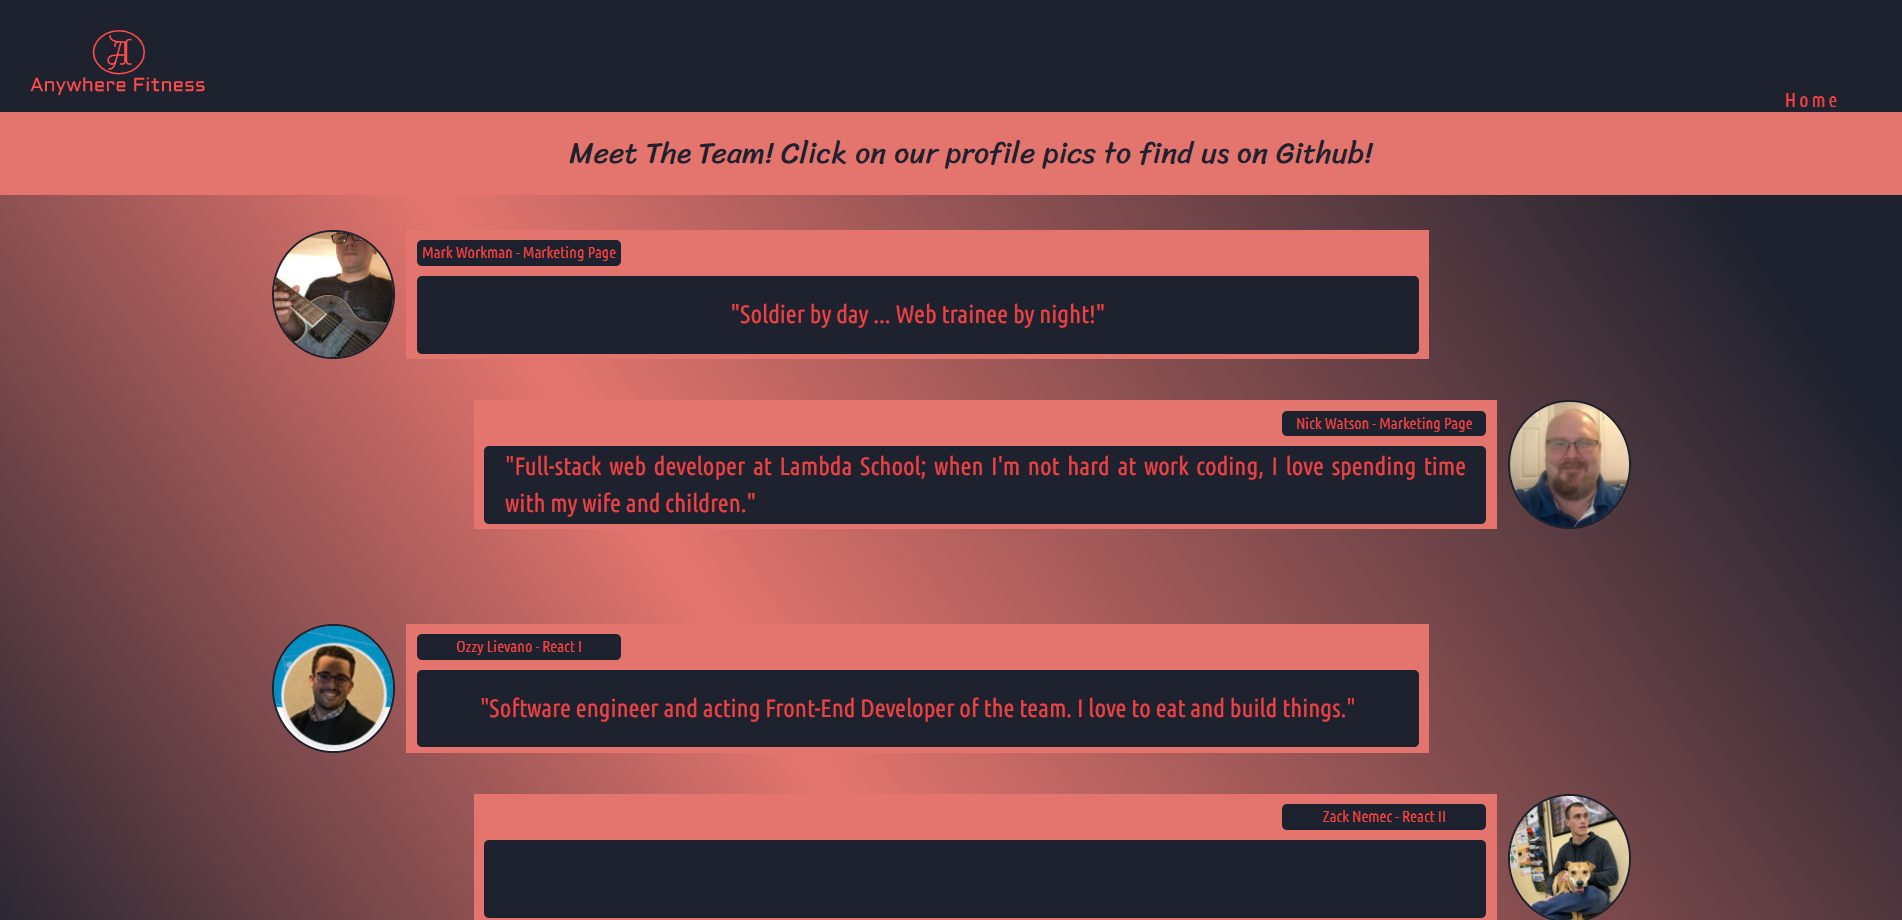
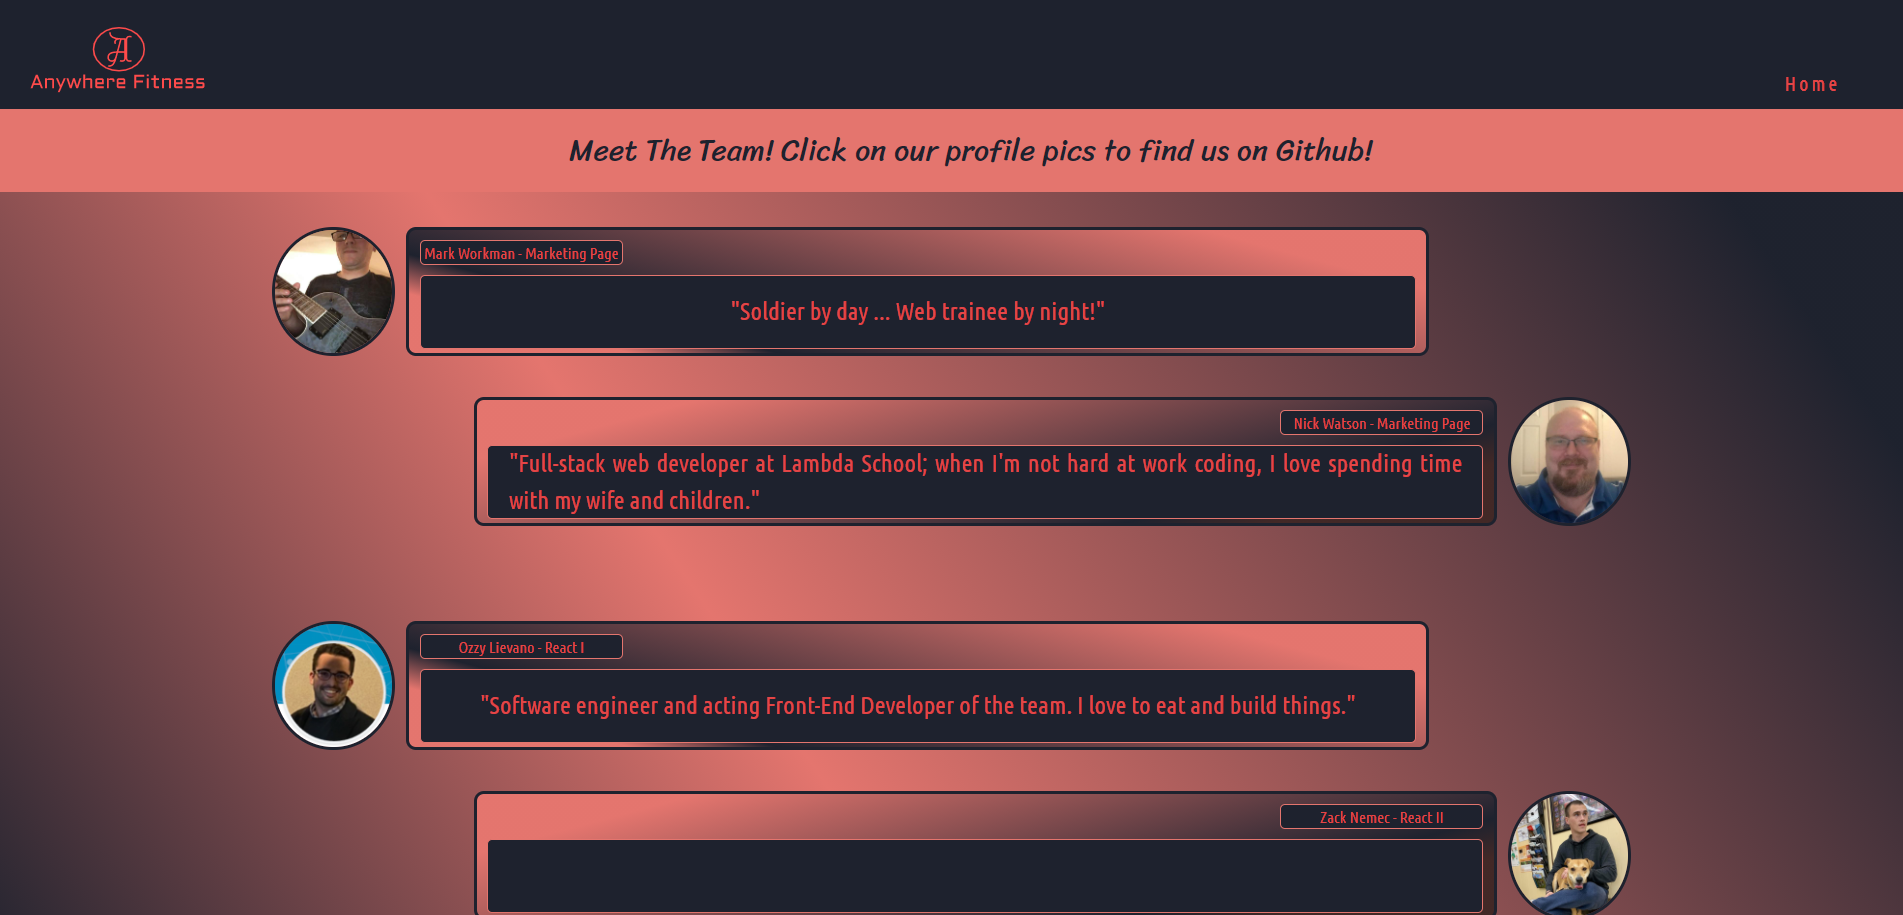
Made changes to nav anchors, edited some pics

diff --git a/Index.css b/Index.css
@@ -131,15 +131,15 @@ h6 {
 
 /* Contents */
 /* Marketing Page ... 146 - 379 */
-/* Media Queries ... (MP) 381 - 662 */
-/* About Us Page ... 666 - 810 */
-/* Media Queries ... (AU)  812 - 1025 */
-/* Ratings Page ... 1029 - 1200 */
-/* Media Queries ... (RP) 1202 - 1444 */
-/* Find Workout Page ... 1448 - 1670 */
-/* Media Queries ... (FWP) 1672 - 1765 */
-/* Favorites Page ... 1769 - 1904 */
-/* Media Queries ... (FP) 1906 - 1966 */
+/* Media Queries ... (MP) 381 - 680 */
+/* About Us Page ... 684 - 828 */
+/* Media Queries ... (AU)  830 - 1043 */
+/* Ratings Page ... 1047 - 1238 */
+/* Media Queries ... (RP) 1240 - 1482 */
+/* Find Workout Page ... 1486 - 1708 */
+/* Media Queries ... (FWP) 1710 - 1803 */
+/* Favorites Page ... 1805 - 1942 */
+/* Media Queries ... (FP) 1944 - 2004 */
 
 /* Colors Used ... #1E222E (background, font) ... #E4756E (background) ... #E34647 (font) */
 
@@ -148,7 +148,7 @@ h6 {
 /* Top Section =================================================================================================================================================== */
 
 nav {
-   padding-top: 5.5rem;
+   padding-top: 2.25%;
 }
 
 a {
@@ -158,13 +158,13 @@ a {
    margin: 5rem;
 }
 
-header a:hover {
+.here-link {
    color: #ffdd45;
 }
 
-/* header a:visited {
-   color: #fc8b2f;
-} */
+header a:hover {
+   color: #ffdd45;
+}
 
 header {
    height: 12vh;
@@ -387,6 +387,15 @@ i:hover {
       padding: 2%;
    }
 
+   nav {
+      padding-top: 4.5%;
+   }
+
+   header nav a {
+      margin: 0 3rem;
+      font-size: 1.75rem;
+   }
+
    .anywhere-fitness {
       width: 20%;
    }
@@ -434,6 +443,15 @@ i:hover {
 @media (max-width: 800px) {
    .anywhere-fitness {
       width: 25%;
+   }
+
+   nav {
+      padding-top: 5.5%;
+   }
+
+   header nav a {
+      margin: 2rem;
+      font-size: 1.5rem;
    }
 
    #top-text-left {
@@ -712,7 +730,7 @@ a.home-link:visited {
 .top-img {
    width: 10.75%;
    height: 98%;
-   border: 2px solid #1e222e;
+   border: 3px solid #1e222e;
    border-radius: 50%;
    overflow: hidden;
 }
@@ -724,13 +742,22 @@ a.home-link:visited {
 .top-info {
    width: 90%;
    height: 98%;
-   background-color: #e4756e;
+   border-radius: 1rem;
+   border: 3px solid #1e222e;
+   background: rgb(228, 117, 110);
+   background: linear-gradient(
+      195deg,
+      rgba(228, 117, 110, 1) 15%,
+      rgba(30, 34, 46, 1) 75%,
+      rgba(228, 117, 110, 1) 85%
+   );
    margin: 0 1%;
 }
 
 .top-title {
    width: 20%;
    height: 20%;
+   border: 1px solid #e4756e;
    background-color: #1e222e;
    text-align: center;
    margin: 1%;
@@ -740,6 +767,7 @@ a.home-link:visited {
 .top-bio {
    width: 98%;
    height: 60%;
+   border: 1px solid #e4756e;
    background-color: #1e222e;
    font-size: 2.5rem;
    display: flex;
@@ -764,7 +792,7 @@ a.home-link:visited {
 .bottom-img {
    width: 10.75%;
    height: 98%;
-   border: 2px solid #1e222e;
+   border: 3px solid #1e222e;
    border-radius: 50%;
    overflow: hidden;
 }
@@ -776,13 +804,22 @@ a.home-link:visited {
 .bottom-info {
    width: 90%;
    height: 98%;
-   background-color: #e4756e;
+   border-radius: 1rem;
+   border: 3px solid #1e222e;
+   background: rgb(228, 117, 110);
+   background: linear-gradient(
+      165deg,
+      rgba(228, 117, 110, 1) 15%,
+      rgba(30, 34, 46, 1) 75%,
+      rgb(66, 40, 38) 85%
+   );
    margin: 0 1%;
 }
 
 .bottom-title {
    width: 20%;
    height: 20%;
+   border: 1px solid #e4756e;
    background-color: #1e222e;
    text-align: center;
    margin: 1% 1% 1% 79%;
@@ -793,6 +830,7 @@ a.home-link:visited {
    width: 98%;
    height: 60%;
    font-size: 2.5rem;
+   border: 1px solid #e4756e;
    background-color: #1e222e;
    display: flex;
    justify-content: space-around;

diff --git a/index.html b/index.html
@@ -81,7 +81,7 @@
         <div class="descriptor">
         <!-- Contains Img and Description -->
             
-            <p> Rate your instructor on a scale of 1 to 5 stars.  Instructors with higher user ratings will display higher on the search list. </p>
+            <p> Click below to rate your instructor on a scale of 1 to 5 stars.  Instructors with higher user ratings will display higher on the search list. </p>
 
             <a href="rate.html">
 
@@ -94,7 +94,7 @@
         <div class="descriptor">
         <!-- Contains Img and Description -->
 
-            <p> Find an instructor and workout in your area that match your fitness needs. </p>
+            <p> Click below to find an instructor and workout in your area that match your fitness needs. </p>
     
             <a href="find.html">
 
@@ -107,7 +107,7 @@
         <div class="descriptor">
         <!-- Contains Img and Description -->
 
-            <p> Save a list of your favorite instructors.  Get notifications when they set up their next workout so you never miss out. </p>
+            <p> Click below to see a list of your favorite instructors.  Get notifications when they set up their next workout so you never miss out. </p>
 
             <a href="faves.html">
 

diff --git a/rate.html b/rate.html
@@ -23,6 +23,10 @@
           <nav>
         
             <a class="home-link" href="index.html">Home</a>
+            <a class="here-link" href="#">Rate Instructors</a>
+            <a class="home-link" href="find.html">Find Workout</a>
+            <a class="home-link" href="faves.html">Favorites</a>
+
         
           </nav>
         

diff --git a/find.html b/find.html
@@ -22,6 +22,9 @@
         <nav>
     
             <a class="home-link" href="index.html">Home</a>
+            <a class="home-link" href="rate.html">Rate Instructors</a>
+            <a class="here-link" href="#">Find Workout</a>
+            <a class="home-link" href="faves.html">Favorites</a>
     
         </nav>
     

diff --git a/faves.html b/faves.html
@@ -23,6 +23,9 @@
       <nav>
     
         <a class="home-link" href="index.html">Home</a>
+        <a class="home-link" href="rate.html">Rate Instructors</a>
+        <a class="home-link" href="find.html">Find Workout</a>
+        <a class="here-link" href="#">Favorites</a>
     
       </nav>
     
